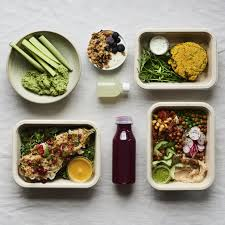
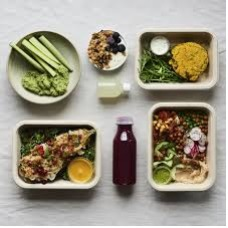
changed in file

diff --git a/Dietcart/src/componants/Exploremenu/Exploremenu.css b/Dietcart/src/componants/Exploremenu/Exploremenu.css
@@ -1,61 +1,33 @@
-/* .food-gallery {
-    display: grid;
-    grid-template-columns: repeat(auto-fit, minmax(300px, 1fr));
-    gap: 20px;
-    padding: 20px;
-  }
-  
-  .food-item {
-    text-align: center;
-    background-color: #fff;
-    border-radius: 10px;
-    box-shadow: 0 4px 8px rgba(0, 0, 0, 0.1);
-    overflow: hidden;
-  }
-  
-  .food-item img {
-    width: 100%;
-    height: auto;
-    display: block;
-  }
-  
-  .food-item p {
-    margin: 10px 0;
-    font-size: 14px;
-    color: #333;
-    cursor: pointer;
-  }
-   */
+
 
    .food-gallery{
     display:flex;
     flex-direction: column;
     gap: 20px;
    }
+   .info-plan{
+    font-size: 25px;
+    color: #676767;
+   }
+
+   h1{
+    color: green;
+   }
    
    .food-item{
     display: flex;
-    /* justify-content: space-between;
-  
-    
-    
-    
-    
-    gap: 30px;
-    
-    margin: 20px 0px;
-    overflow-x: scroll; 
-    display: grid; */
     border-radius: 10px;
     text-align: center;
     background-color: #fff;
-    align-items: center;
     grid-template-columns: repeat(auto-fit, minmax(300px, 1fr));
     gap: 20px;
     padding: 20px;
     overflow: hidden;
     
+    
    }
+
+  
 
    .food-item.food-item::-webkit-scrollbar{
     display: none;
@@ -64,9 +36,12 @@
    .food-item img{
     width: 250px;
     cursor: pointer;
-    border-radius: 10px;
+    border-radius: 10px 10px 0px 0px;
     transition: 0.3s;
     box-shadow: 0 4px 8px rgba(0, 0, 0, 0.1);
+    border-bottom: 2px solid orange;
+    
+    
    }
 
    .food-item p{
@@ -75,6 +50,12 @@
     color: #333;
     cursor: pointer;
     
+    
+   }
+
+   .plan-list-item{
+    border: 2px solid orange;
+    border-radius: 10px;
    }
 
    .plan-list-item .active{
@@ -82,3 +63,9 @@
     padding: 2px;
    }
 
+   .food-gallery hr{
+    margin: 10px 0px;
+    height: 2px;
+    background-color: #e2e2e2;
+    border: none;
+   }

diff --git a/Dietcart/src/componants/Planitem/Planitem.css b/Dietcart/src/componants/Planitem/Planitem.css
@@ -1,0 +1,56 @@
+.plan-item{
+    width: 100%;
+    margin: auto;
+    border-radius: 15px;
+    box-shadow: 0px 0px 10px #0a090915;
+    transition: 0.3s;
+    animation: fadeIn 1s;
+    max-width: 1200px
+}
+
+.plan-item-img{
+    width: 100%;
+    border-radius: 10px 10px 0px 0px;
+}
+
+
+
+.plan-item-name{
+justify-content: space-between;
+margin-bottom: 20px;
+}
+
+.plan-item-name h3{
+    font-size: 20px;
+    text-align: center;
+}
+
+
+
+.plan-item-desc{
+    color: #676767;
+    font-size: 18px;
+    margin-bottom: 20px;
+}
+
+.plan-item-prise{
+    font-size: 18px;
+    font-weight: bold;
+    margin: 10px;
+}
+
+.plan-item-buy{
+    display: block;
+    text-align: center;
+    background-color: #000;
+    color: #fff;
+    text-decoration: none;
+    padding: 10px;
+    margin: 10px;
+    border-radius: 4px;
+    transition: background-color 0.3s;
+}
+
+.plan-item-buy:hover{
+    background-color: orange;
+}

diff --git a/Dietcart/src/componants/Subplans/Subplan.css b/Dietcart/src/componants/Subplans/Subplan.css
@@ -1,0 +1,32 @@
+.subplan-display{
+    margin-top:30px; 
+}
+
+.subplan-display h1{
+    font-size: max(2vw,24px);
+    font-weight: 600;
+    color:tomato;
+    text-align: center;
+}
+
+.plan-display-list{
+    /* display: grid;
+    grid-template-columns: repeat(auto-fill,minmax(240px,1fr));
+    margin-top: 30px;
+    gap: 30px;
+    row-gap: 50px; */
+   
+    display: flex;
+    border-radius: 10px;
+    text-align: center;
+    background-color: #fff;
+    grid-template-columns: repeat(auto-fit, minmax(300px, 1fr));
+    gap: 20px;
+    padding: 20px;
+
+    
+}
+
+
+
+

diff --git a/Dietcart/src/componants/Exploremenu/Exploremenu.jsx b/Dietcart/src/componants/Exploremenu/Exploremenu.jsx
@@ -5,21 +5,21 @@ import { plan_list } from '../../assets/assets'
 const Exploremenu = ({category,setCategory}) => {
     return (
         <div className="food-gallery">
-          <div className="food-item">
-           {plan_list.map((item,index)=>{
-            return(
-              <div onClick={()=>setCategory(prev=>prev===item.plan_decs?"All":item.plan_decs)} key={index} className='plan-list-item'>
-                <img className={category===item.plan_decs?"active":""}src={item.plan_image} alt=''/>
-                <p>{item.plan_decs}</p>
+          <h1>Explore Our Meal Plans</h1>
+          <p className='info-plan'>Choose the cleanse and maintain plan that suits your body.</p>
+            <div className="food-item">
+            {plan_list.map((item,index)=>{
+              return(
+                <div onClick={()=>setCategory(prev=>prev===item.plan_decs?"All":item.plan_decs)} key={index} className='plan-list-item'>
+                  <img className={category===item.plan_decs?"active":""}src={item.plan_image} alt=''/>
+                  <p>{item.plan_decs}</p>
+                </div>
 
-
-              </div>
-
-            )
-           })
-           }
-          </div>
-          
+              )
+            })
+            }
+            </div>
+          <hr/>
         </div>
       );
 }

diff --git a/Dietcart/src/componants/Planitem/Planitem.jsx b/Dietcart/src/componants/Planitem/Planitem.jsx
@@ -9,10 +9,11 @@ function Planitem({subplan_name,subplan_img,subplan_desc,Price}) {
       </div>
       <div className="plan-item-info">
         <div className="plan-item-name">
-            <p>{subplan_name}</p>
+            <h3>{subplan_name}</h3>
         </div>
         <p className="plan-item-desc">{subplan_desc}</p>
-        <p className="plan-item-prise">Rs.{Price}</p>
+        <p className="plan-item-prise">{Price}</p>
+        <a href="#" className="plan-item-buy">BUY IT NOW</a>
       </div>
     </div>
   )

diff --git a/Dietcart/src/assets/assets.js b/Dietcart/src/assets/assets.js
@@ -7,7 +7,7 @@ import image2 from './image2.jpg'
 import image5 from './image5.jpg'
 import image3 from './image3.jpg'
 import img1 from './img1.jpg'
-import img2 from './img2.jpeg'
+import img2 from './img2.jpg'
 import img3 from './img3.jpg'
 
 export const assets={